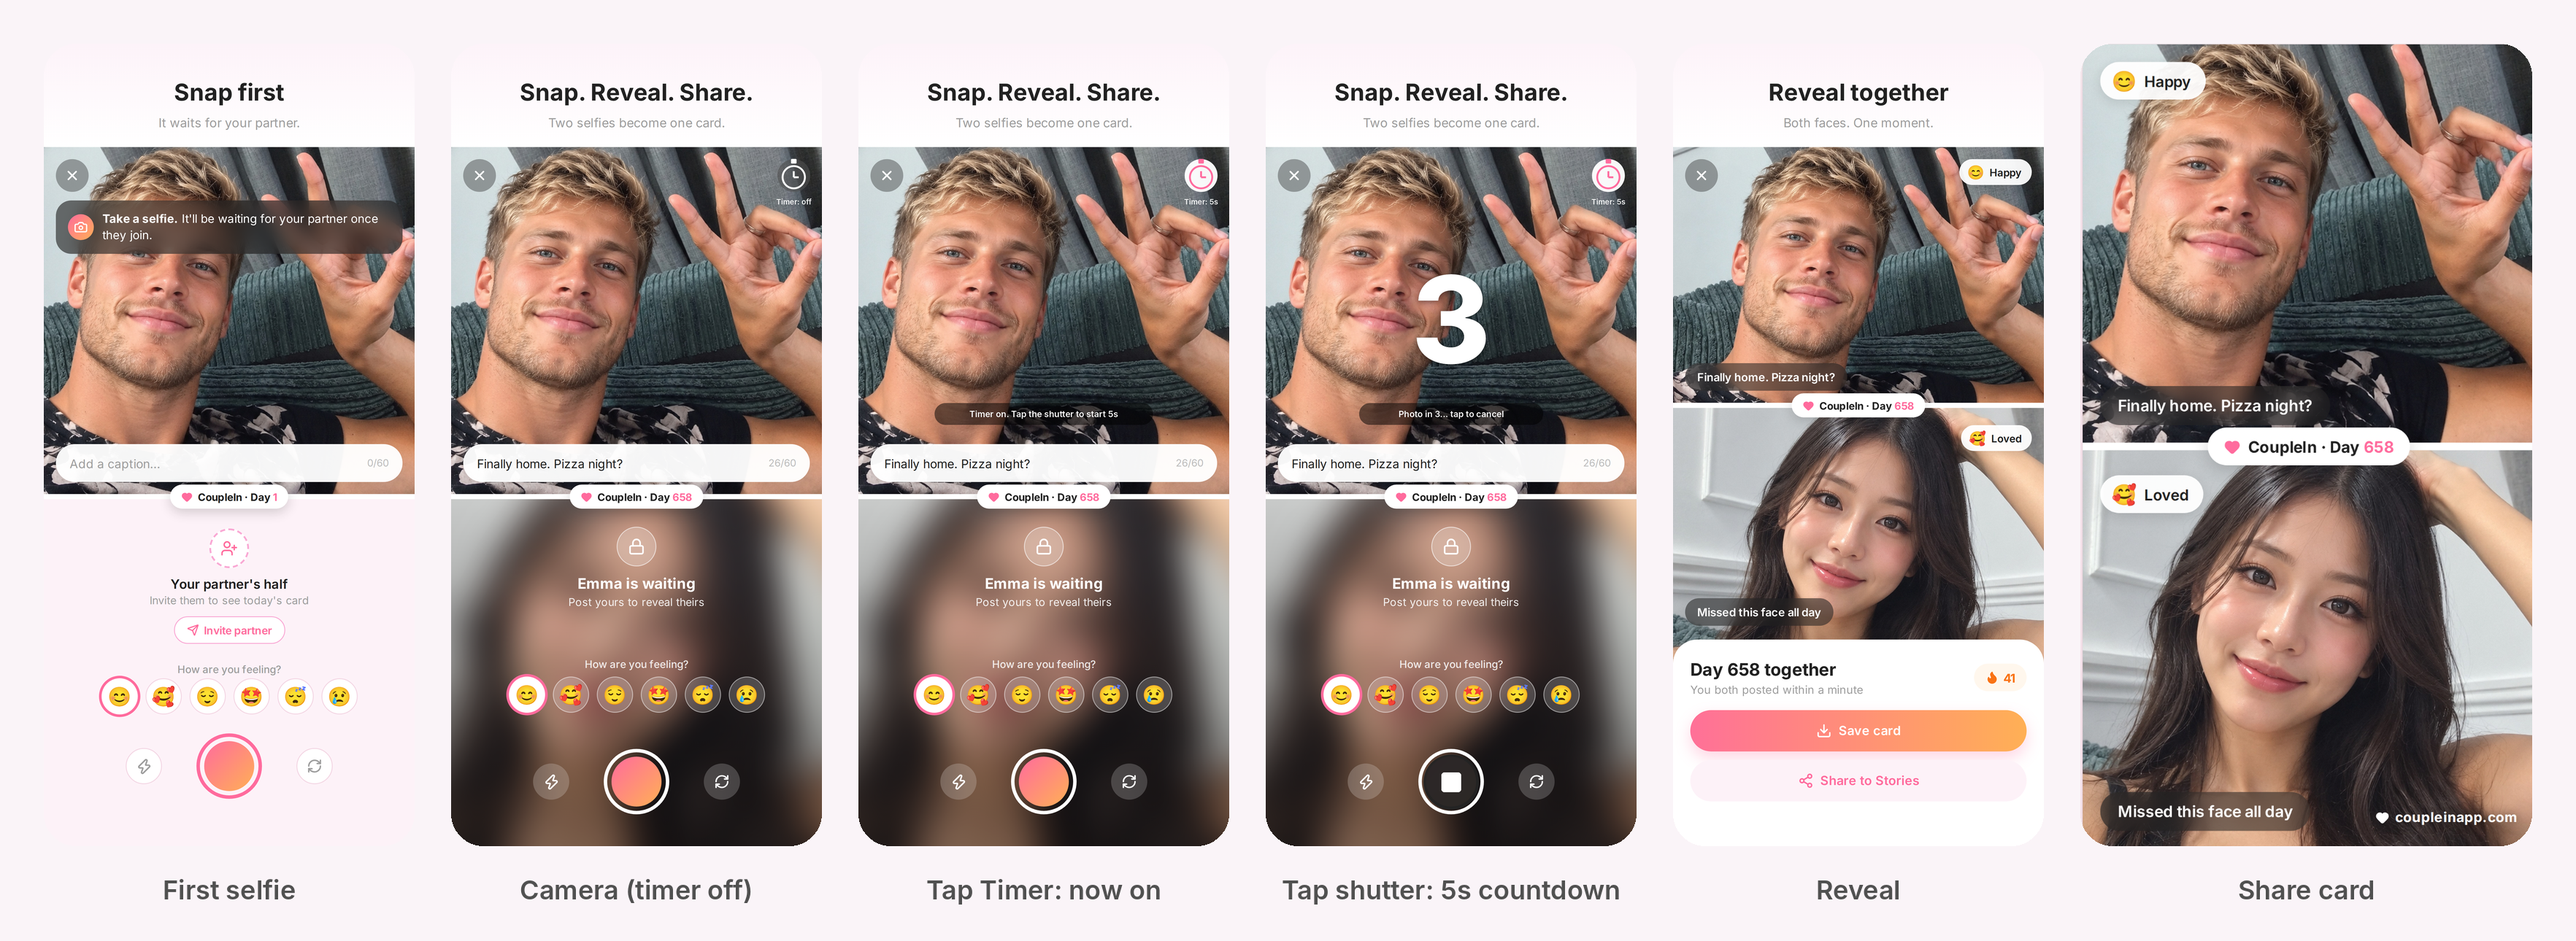
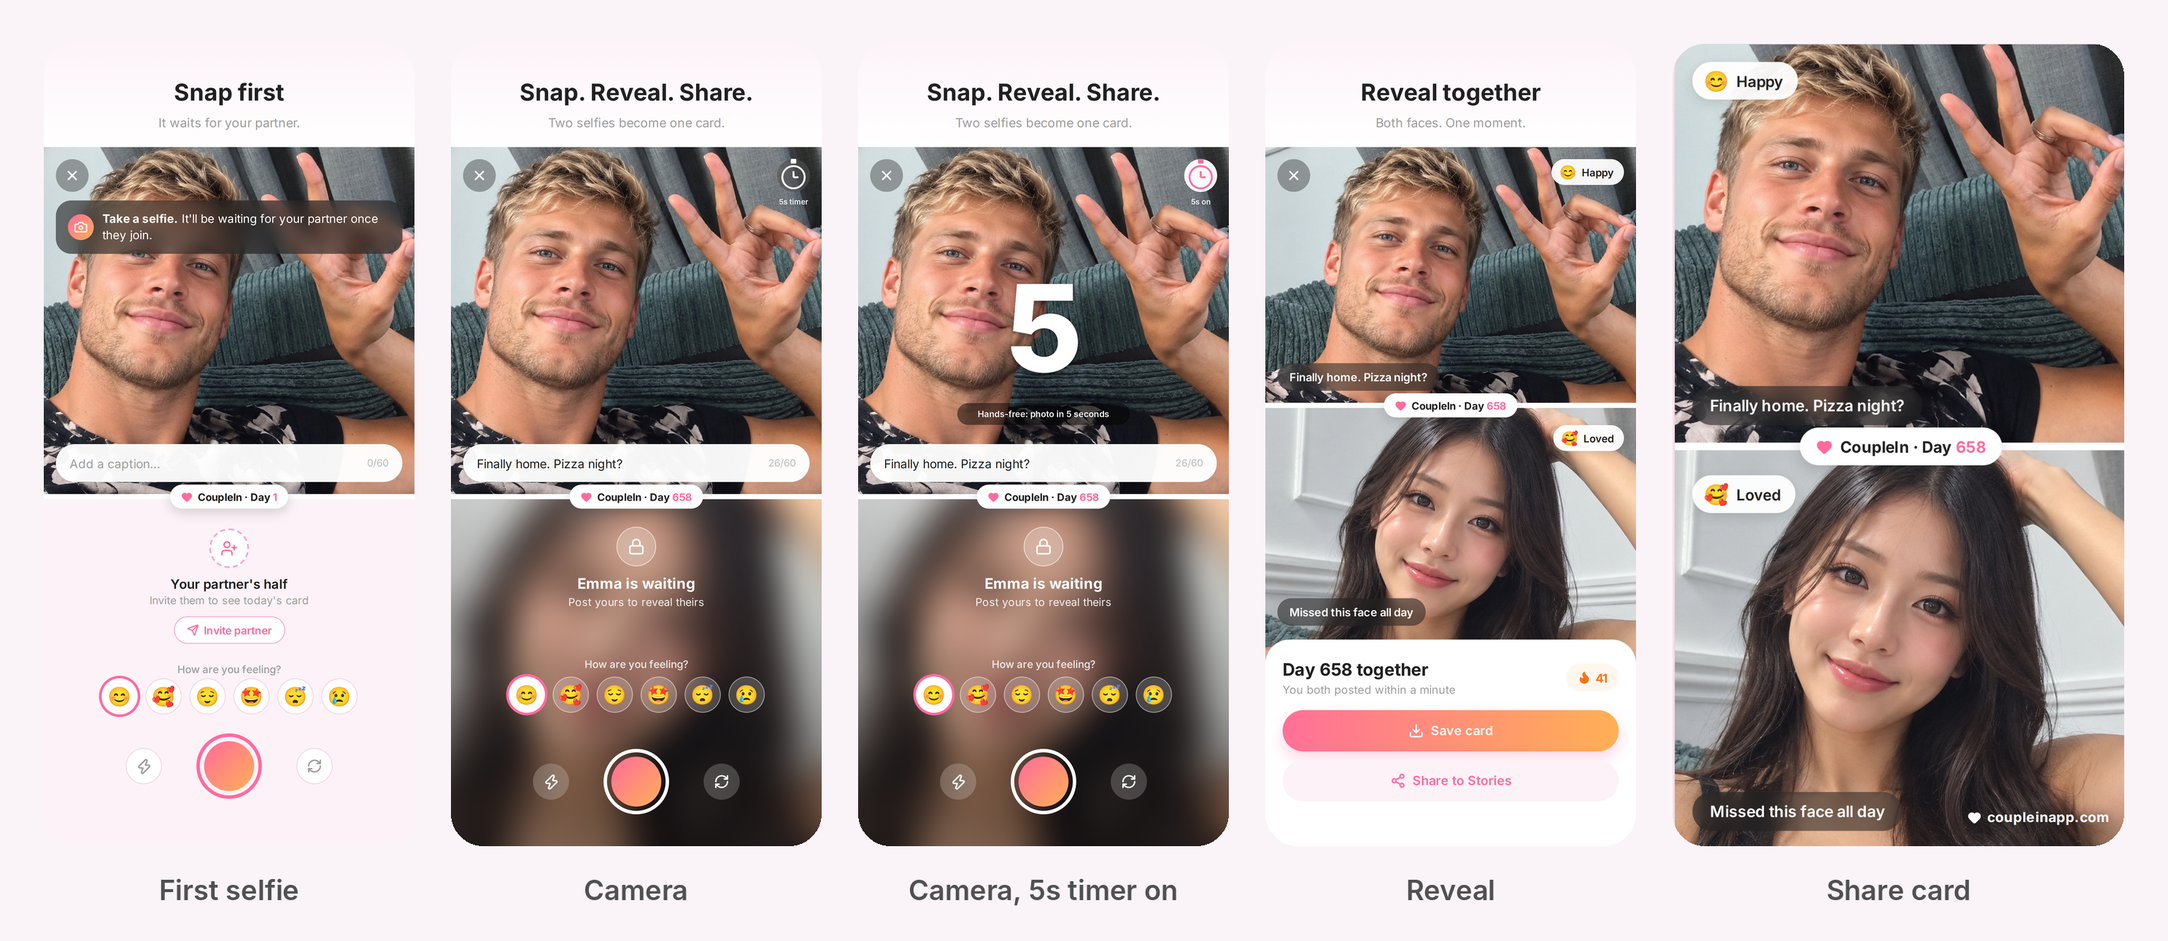
Final Plan: revert camera timer mock to previous design, keep explanation
Claude-Session: https://claude.ai/code/session_01437rANtd5MAYdKDkxZsNAs

diff --git a/final-plan/Final-Plan-Developer.md b/final-plan/Final-Plan-Developer.md
@@ -128,7 +128,7 @@ The promise made before any photo is taken: neither partner can see the other's 
 
 **5-second timer (hands-free). An optional tap, never automatic.** Many poses need both hands or the phone held at a distance, so the camera has a small timer button at the top-right, opposite the X. The user chooses, every time, whether to use it. It is OFF by default and normal photos are unchanged: tap the shutter, photo is taken instantly.
 
-How it works, matching the three camera mocks in order:
+How it works, shown in the camera mocks (screen 2 is step 1, screen 3 shows steps 2 and 3 as a single mock; the intermediate screens are not drawn):
 
 1. **Timer off (default).** The button is grey with a stopwatch icon and the label "Timer: off". The shutter takes the photo immediately.
 2. **User taps the timer button to turn it on.** The button turns white with a pink stopwatch and the label changes to "Timer: 5s". A pill appears: "Timer on. Tap the shutter to start 5s". Nothing starts yet. Tapping the button again turns it back off.
@@ -146,9 +146,9 @@ After the photo the timer switches itself back off, so the next photo is a norma
 
 **Week 1 video.** Promised on the first reveal screen. Generated on the phone from the first 7 completed pairs (photos are local), about 10 to 15 seconds: each pair cut to a beat with its pose name and "Day N together", ending on a title card with the date range. Delivered when the 7th pair is revealed, with a push: "Your Week 1 video is ready." Free gets it with the watermark and sees "Remove the watermark" as an upgrade. If a couple is slow, send a partial video on day 10 using the pairs that exist.
 
-**Reference screens.** These mocks predate the latest decisions. Follow the text where they differ: no mood row, no streak badge, "posted within a minute" removed, "Share to Stories" becomes "Who did it better?", the Moments history screen is dropped, and the reveal countdown screen is not drawn yet. The camera now has an optional 5-second timer button (screens 2 to 4 show off, turned on, and counting down).
+**Reference screens.** These mocks predate the latest decisions. Follow the text where they differ: no mood row, no streak badge, "posted within a minute" removed, "Share to Stories" becomes "Who did it better?", the Moments history screen is dropped, and the reveal countdown screen is not drawn yet. The camera now has an optional 5-second timer button (screen 2 shows it off, screen 3 shows it on and counting down).
 
-![First selfie, camera, camera with timer off, timer turned on, 5-second countdown, reveal and share card mocks](images/sync-reference-screens.png)
+![First selfie, camera, camera, camera with 5-second timer on, reveal and share card mocks](images/sync-reference-screens.png)
 
 ## 6. Storage, relay and privacy
 
